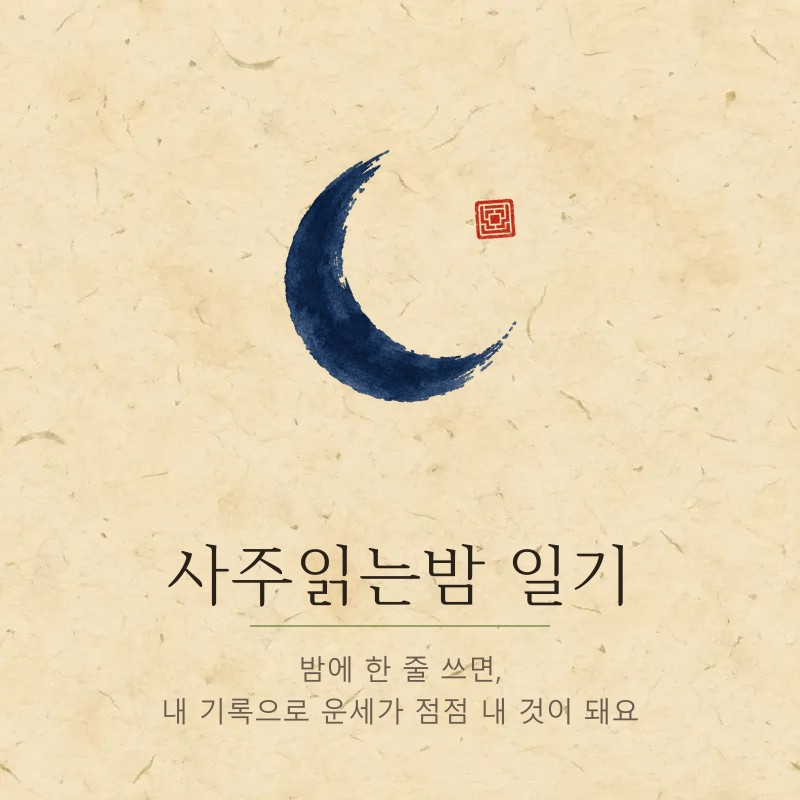
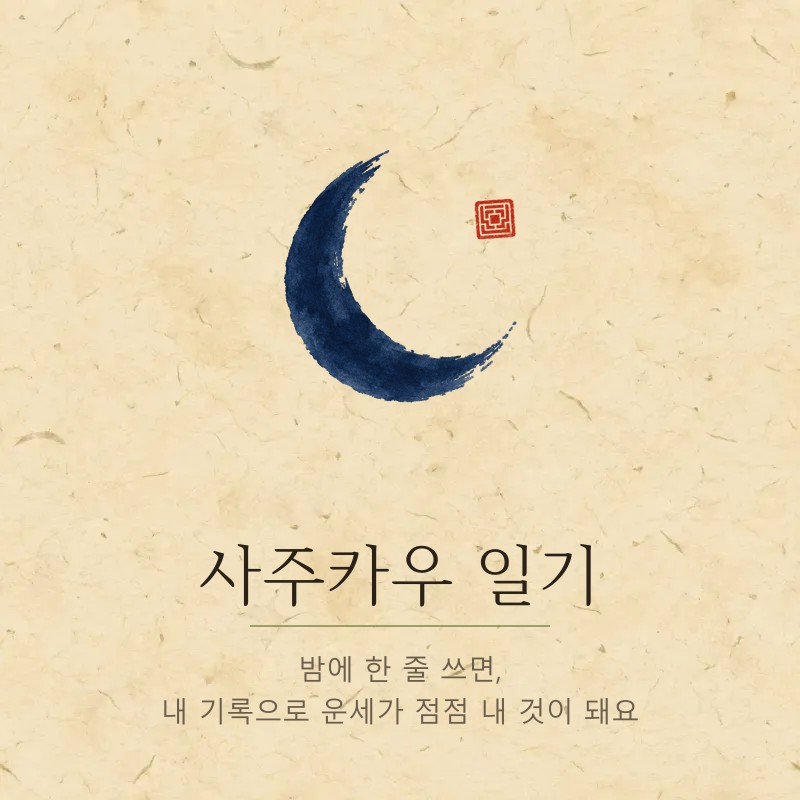
앱 이름 "사주읽는밤 일기" → "사주카우 일기" (홈 화면 "사주카우") — 바이럴 브랜드와 맞춤
- manifest name·short_name, layout 제목·og·twitter·appleWebApp
- 카톡 미리보기 og.jpg·kakao.jpg 다시 만듦 (scripts/build-og.mjs)
- 로그인 화면 이름, 다른 창 안내 문구, 알림 설정의 카카오 채널 링크, 푸시 기본 제목, README
- 운세 작가 지시문(llm.ts)과 마이그레이션 주석은 그대로

Changed region(s): [[0.2188, 0.6875, 0.7812, 0.7812]]

diff --git a/apps/diary/src/app/layout.tsx b/apps/diary/src/app/layout.tsx
@@ -17,10 +17,10 @@ const gowun = Gowun_Batang({ weight: ["400", "700"], preload: false, variable: "
 const PRETENDARD_CSS = "https://cdn.jsdelivr.net/gh/orioncactus/pretendard@v1.3.9/dist/web/variable/pretendardvariable-dynamic-subset.min.css";
 
 export const metadata: Metadata = {
-  title: "사주읽는밤 일기",
+  title: "사주카우 일기",
   description: "밤에 한 줄 쓰면, 내 기록으로 운세가 점점 내 것이 됩니다.",
   manifest: "/manifest.webmanifest",
-  appleWebApp: { capable: true, statusBarStyle: "default", title: "사주읽는밤" },
+  appleWebApp: { capable: true, statusBarStyle: "default", title: "사주카우" },
   icons: { icon: "/icons/favicon-48.png", apple: "/icons/apple-touch-icon.png" },
   // 링크 미리보기(카톡·스레드·인스타): scripts/build-og.mjs가 만든 public/og.jpg — 앱 아이콘과 같은 붓 초승달.
   // 절대 주소는 metadataBase: NEXT_PUBLIC_SITE_URL이 있으면 그것, 없으면 Vercel이 넣는 VERCEL_PROJECT_PRODUCTION_URL(Next 15 기본)
@@ -28,12 +28,12 @@ export const metadata: Metadata = {
   openGraph: {
     type: "website",
     locale: "ko_KR",
-    siteName: "사주읽는밤 일기",
-    title: "사주읽는밤 일기",
+    siteName: "사주카우 일기",
+    title: "사주카우 일기",
     description: "밤에 한 줄 쓰면, 내 기록으로 운세가 점점 내 것이 됩니다.",
-    images: [{ url: "/og.jpg", width: 1200, height: 630, alt: "사주읽는밤 일기 — 한지 위 붓 한 획 초승달" }],
+    images: [{ url: "/og.jpg", width: 1200, height: 630, alt: "사주카우 일기 — 한지 위 붓 한 획 초승달" }],
   },
-  twitter: { card: "summary_large_image", title: "사주읽는밤 일기", description: "밤에 한 줄 쓰면, 내 기록으로 운세가 점점 내 것이 됩니다.", images: ["/og.jpg"] },
+  twitter: { card: "summary_large_image", title: "사주카우 일기", description: "밤에 한 줄 쓰면, 내 기록으로 운세가 점점 내 것이 됩니다.", images: ["/og.jpg"] },
 };
 
 export const viewport: Viewport = {

diff --git a/apps/diary/public/sw.js b/apps/diary/public/sw.js
@@ -1,4 +1,4 @@
-/* 사주읽는밤 일기 — 서비스 워커. 캐시는 하지 않는다 (옛 번들이 남아 화면이 깨지는 사고 방지). 푸시 알림만 맡는다. */
+/* 사주카우 일기 — 서비스 워커. 캐시는 하지 않는다 (옛 번들이 남아 화면이 깨지는 사고 방지). 푸시 알림만 맡는다. */
 self.addEventListener("install", () => self.skipWaiting());
 self.addEventListener("activate", (event) => event.waitUntil(self.clients.claim()));
 
@@ -9,7 +9,7 @@ self.addEventListener("push", (event) => {
   } catch {
     data = { body: event.data ? event.data.text() : "" };
   }
-  const title = data.title || "사주읽는밤 일기";
+  const title = data.title || "사주카우 일기";
   const options = {
     body: data.body || "오늘 한 줄 남길 시간이에요.",
     icon: "/icons/app-icon-192.png",

diff --git a/apps/diary/src/components/NotificationSettings.tsx b/apps/diary/src/components/NotificationSettings.tsx
@@ -141,7 +141,7 @@ export function NotificationSettings({ enabled, remindHour, kakaoChannelUrl }: P
         <p className="text-[15px] font-bold">카카오 채널</p>
         <p className="mt-0.5 text-sm text-muted">앱 알림이 어려우면 채널 추가로 소식을 받을 수 있어요.</p>
         <a href={kakaoChannelUrl} target="_blank" rel="noreferrer" onClick={() => track("kakao_channel_click")} className="tap mt-1 text-sm text-muted underline underline-offset-4">
-          사주읽는밤 채널 추가
+          사주카우 채널 추가
         </a>
       </div>
     </div>

diff --git a/apps/diary/src/app/login/page.tsx b/apps/diary/src/app/login/page.tsx
@@ -22,7 +22,7 @@ export default async function LoginPage({ searchParams }: { searchParams: Promis
   }
   return (
     <main className="flex flex-1 flex-col justify-center">
-      <p className="text-sm text-muted">사주읽는밤 일기</p>
+      <p className="text-sm text-muted">사주카우 일기</p>
       <h1 className="mt-2 font-serif text-[30px] leading-snug text-ink">
         이미 Google로 쓰던 분은
         <br />

diff --git a/apps/diary/src/app/auth/done/page.tsx b/apps/diary/src/app/auth/done/page.tsx
@@ -47,7 +47,7 @@ export default async function AuthDonePage({ searchParams }: { searchParams: Pro
   );
 }
 
-const BACK = "이 창은 닫고 홈 화면의 '사주읽는밤' 앱으로 돌아가 주세요.";
+const BACK = "이 창은 닫고 홈 화면의 '사주카우' 앱으로 돌아가 주세요.";
 
 const COPY: Record<LinkDoneStatus, { title: string; body: string[] }> = {
   linked: {

diff --git a/apps/diary/README.md b/apps/diary/README.md
@@ -1,4 +1,4 @@
-# 사주읽는밤 일기 (apps/diary)
+# 사주카우 일기 (apps/diary)
 
 이 저장소의 **살아 있는 앱**이다. 루트(`src/` 등)는 동결된 레거시라 루트에서 `npm` 명령을 돌리지 않는다. 결정과 단계는 `../../docs/REBUILD_PLAN.md`, 운세는 `../../docs/FORTUNE_V4.md`, 익명 시작은 `../../docs/ANON_START.md`, 화면 디자인은 `docs/design/00-톤.md`.
 
